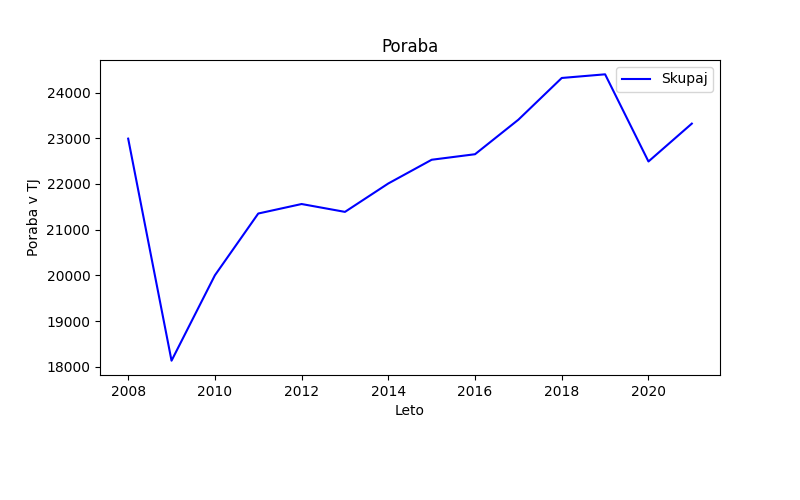
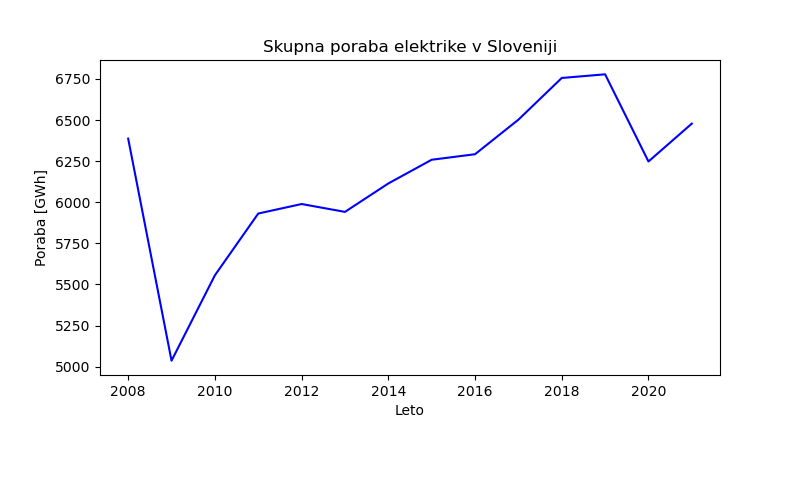
popravki nekaterih starih grafov in en nov graf o razmerjih

diff --git a/py/razmerje_med_proizvodnjo_in_porabo_elektrike.py b/py/razmerje_med_proizvodnjo_in_porabo_elektrike.py
@@ -1,0 +1,74 @@
+import matplotlib.pyplot as plt
+import numpy as np
+import csv
+
+# ---------- UVOZ PODATKOV ----------
+with open('../podatki/csv/poraba_skupaj_brez-transformacij.csv', encoding="cp1252") as f:
+    reader = csv.reader(f)
+    podatkiPorabe = [row for row in reader]
+
+with open('../podatki/csv/proizvodnja_elektrike_po_tipu_elektrarne.csv', encoding="cp1250") as f:
+    reader = csv.reader(f)
+    podatkiProizvodov = [row for row in reader]
+
+
+# ---------- PORABA ----------
+data = podatkiPorabe[1:]
+
+porabe_skupaj = []
+names = []
+for row in data:
+    names.append(row[0])
+    # deli se z 3.6, ker je to faktor pretvorbe iz TJ v GWh
+    value = [int(n) / 3.6 if n.isdigit() else 0 for n in row[1:]]
+    porabe_skupaj.append(value)
+porabe_skupaj = porabe_skupaj[0]
+
+
+# ---------- PROIZVODNJA ----------
+# izberi taprave aktualne vrstice
+data = np.array(podatkiProizvodov[2:8])
+data = np.delete(data, 1, axis=0)
+
+proizvodi_po_tipu_elektrarn = []
+
+# pretvori v števila
+for row in data:
+    proizvodi_po_tipu_elektrarn.append([float(n) if n != '-' else 0 for n in row[2:]][4:])
+
+# seštej proizvode različnih tipov elektrarn (sešteje stolpce) in
+# odstrani prve 4 zapise (podatki porabe se začnejo leta 2008, proizvodov pa 2004)
+proizvodi_skupaj = np.sum(proizvodi_po_tipu_elektrarn, axis=0)
+
+
+# ---------- RAZMERJA ----------
+# če je razmerje večje od 1, potem je viška elektrike, sicer jo je bilo potrebno uvažati
+razmerja_skupno = np.divide(proizvodi_skupaj, porabe_skupaj)
+
+razmerja_po_tipu_elektrarn = []
+for proizvodi_tipa_elektrarne in proizvodi_po_tipu_elektrarn:
+    razmerja_po_tipu_elektrarn.append(np.divide(proizvodi_tipa_elektrarne, porabe_skupaj))
+
+
+# ---------- IZPIS PODATKOV ----------
+
+names = ['Hidroelektrarne', 'Termoelektrarne', 'Jedrska elektrarna', 'Sončne elektrarne', 'Vetrne elektrarne']
+colors = ['red', 'green', 'blue', 'yellow', 'cyan', 'magenta']
+leta = [leto for leto in range(2008, 2022, 1)]
+
+# prikaz razmerja skupne proizvodnje in skupne porabe
+plt.plot(leta, razmerja_skupno, color=colors[0])
+plt.xlabel('Čas [leta]')
+plt.ylabel('Razmerje [proizvod/poraba]')
+plt.title('Razmerje med skupno proizvodnjo in porabo elektrike v Sloveniji')
+plt.show()
+
+# prikaz razmerja proizvodnje po tipu elektrarne in skupne porabe
+plt.axhline(y=1, color='black', linestyle='--')
+for i, value in enumerate(razmerja_po_tipu_elektrarn):
+    plt.plot(leta, value, color=colors[i], label='{}'.format(names[i]))
+plt.xlabel('Čas [leta]')
+plt.ylabel('Razmerje [proizvod/poraba]')
+plt.title('Razmerje med proizvodnjo po tipu elektrarne in porabo elektrike v Sloveniji')
+plt.legend(loc='lower left', bbox_to_anchor=(0, 0.1, 1, 0.1))
+plt.show()

diff --git a/py/elektricna_poraba_skupaj.py b/py/elektricna_poraba_skupaj.py
@@ -14,9 +14,9 @@ data = data[1:]
 values = []
 names = []
 for row in data:
-    print(row)
     names.append(row[0])
-    value = [int(n) if n.isdigit() else 0 for n in row[1:]]
+    # deli se z 3.6, ker je to faktor pretvorbe iz TJ v GWh
+    value = [int(n) / 3.6 if n.isdigit() else 0 for n in row[1:]]
     values.append(value)
 
 # od 2008 do 2021
@@ -25,10 +25,9 @@ colors = ['blue']
 
 fig, ax = plt.subplots(figsize=(8, 5))
 for i, value in enumerate(values):
-    ax.plot(years, value, color=colors[i], label='Skupaj')
+    ax.plot(years, value, color=colors[i])
 plt.xlabel('Leto')
-plt.ylabel('Poraba v TJ')
-plt.title('Poraba')
-ax.legend(loc='best')
+plt.ylabel('Poraba [GWh]')
+plt.title('Skupna poraba elektrike v Sloveniji')
 plt.subplots_adjust(bottom=0.25)
 plt.show()

diff --git a/py/elektricna_poraba_po_dejavnosti.py b/py/elektricna_poraba_po_dejavnosti.py
@@ -20,7 +20,8 @@ names = []
 for row in data:
     print(row)
     names.append(row[0])
-    value = [int(n) if n.isdigit() else 0 for n in row[1:]]
+    # deli se z 3.6, ker je to faktor pretvorbe iz TJ v GWh
+    value = [int(n) / 3.6 if n.isdigit() else 0 for n in row[1:]]
     values.append(value)
 
 # od 2008 do 2021
@@ -31,8 +32,8 @@ fig, ax = plt.subplots(figsize=(8, 8))
 for i, value in enumerate(values):
     ax.plot(years, value, color=colors[i], label='{}'.format(names[i]))
 plt.xlabel('Leto')
-plt.ylabel('Poraba v TJ')
-plt.title('Poraba')
+plt.ylabel('Poraba [GWh]')
+plt.title('Električna poraba po dejavnosti v Sloveniji')
 ax.legend(loc='lower center', bbox_to_anchor=(0, -0.4, 1, 0.1))
 plt.subplots_adjust(bottom=0.25)
 plt.show()

diff --git a/py/cena_elektrike_ne-gospodinjske_skupaj.py b/py/cena_elektrike_ne-gospodinjske_skupaj.py
@@ -11,11 +11,17 @@ non_household = data[7]
 quarters = [x for x in data[0]][1:]
 colors = ['red', 'green', 'blue', 'yellow', 'cyan', 'magenta']
 
+for i, quarter in enumerate(quarters):
+    if i % 4 != 0:
+        quarters[i] = str(" ")*i
+    else:
+        quarters[i] = quarter[:-2]
+
 plt.plot(quarters, [float(x) for x in household[1:]], label=household[0])
 plt.plot(quarters, [float(x) for x in non_household[1:]], label=non_household[0])
 plt.xlabel('Čas [četrtletje]')
 plt.ylabel('Cena [EUR/kWh]')
 plt.title('Cena električne energije')
-plt.xticks(rotation=-90)
+plt.xticks(rotation=-60)
 plt.legend(loc='best')
 plt.show()

diff --git a/py/cena_elektrike_gospodinjskih_odjemalcev_po_doloceni_porabi.py b/py/cena_elektrike_gospodinjskih_odjemalcev_po_doloceni_porabi.py
@@ -32,5 +32,5 @@ plt.xlabel('Čas [četrtletje]')
 plt.ylabel('Cena [EUR/kWh]')
 plt.title('Cena električne energije gospodinjskih odjemalcev po določeni porabi')
 plt.legend(loc='upper left')
-plt.xticks(rotation=-90)
+plt.xticks(rotation=-60)
 plt.show()
